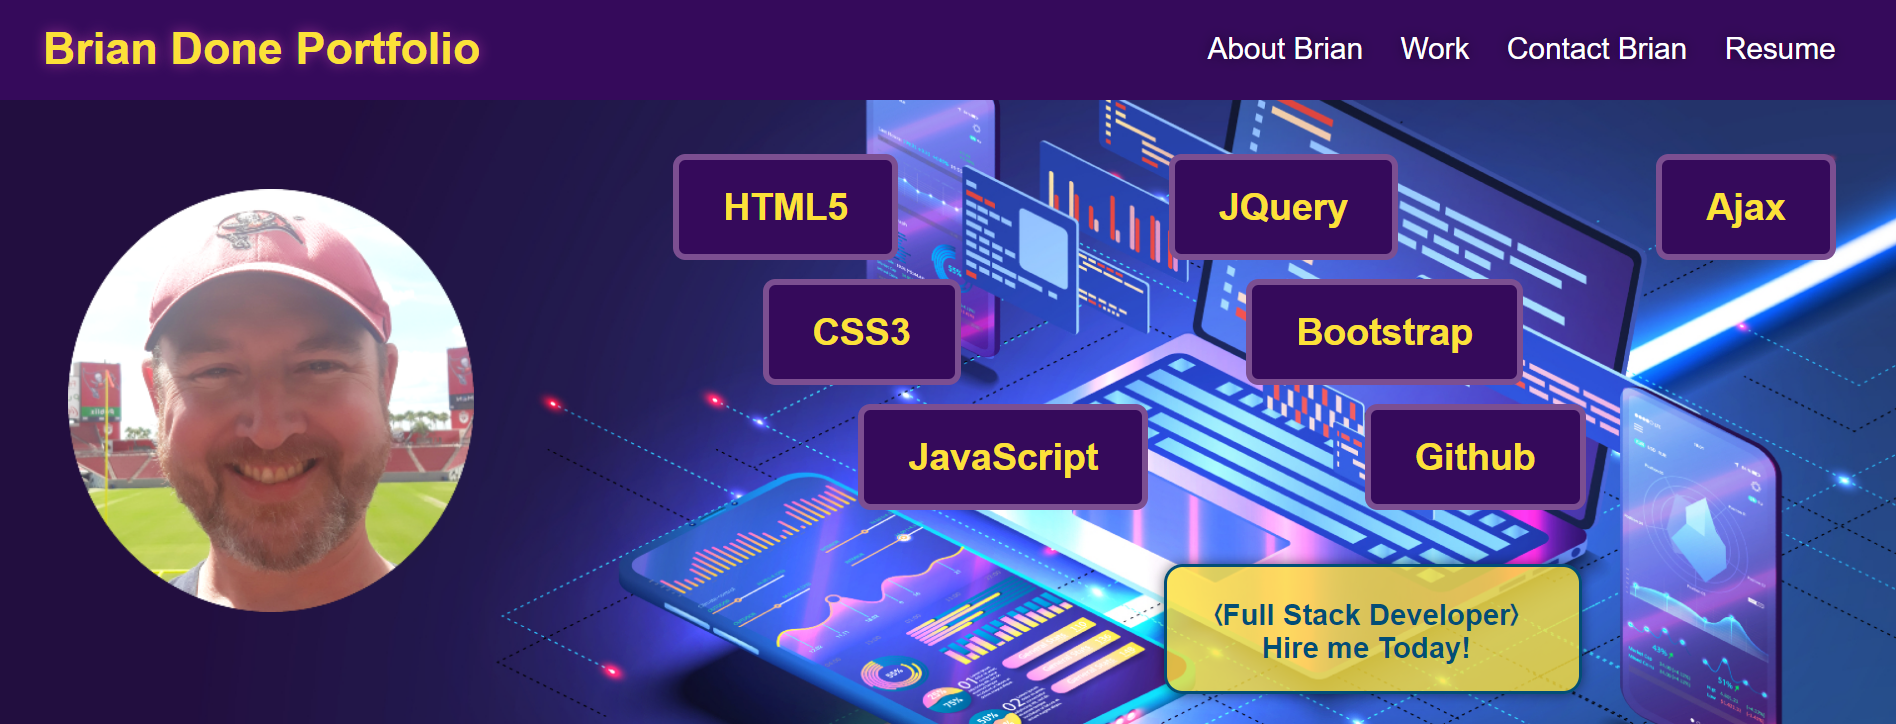
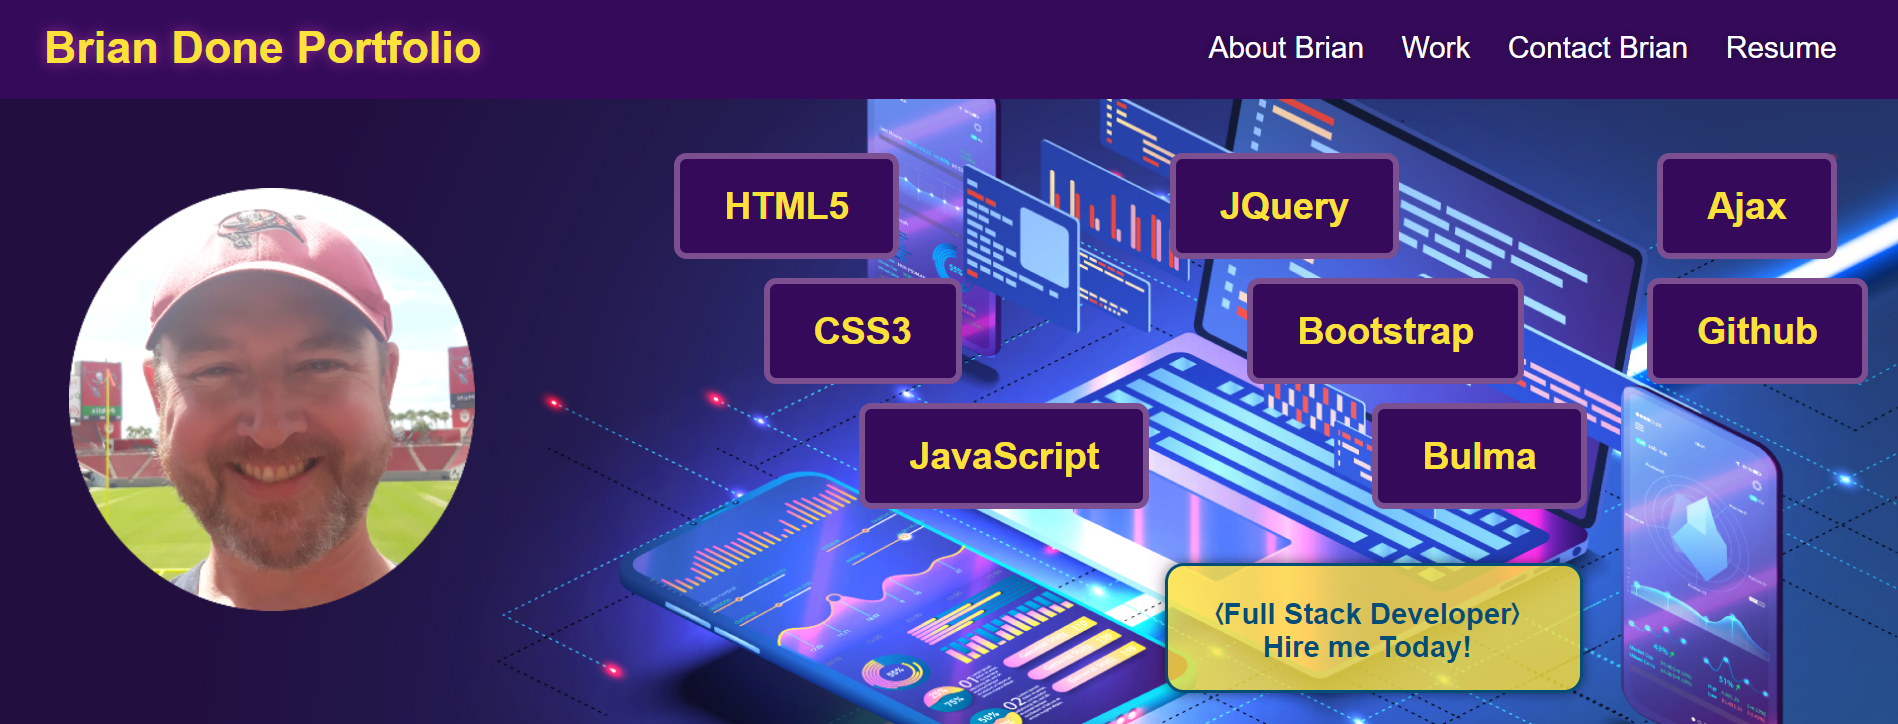
added bulma js function to hero

diff --git a/assets/js/main.js b/assets/js/main.js
@@ -45,14 +45,14 @@ var sloganBootstrap = function () {
 }
 setTimeout(sloganBootstrap, 5000);
 
-var sloganGithub = function () {
-    var githubEl = document.createElement("div");
-    githubEl.textContent = "Github";
-    body.appendChild(githubEl);
-    githubEl.className = "slogan-github";
+var sloganBulma = function () {
+    var bulmaEl = document.createElement("div");
+    bulmaEl.textContent = "Bulma";
+    body.appendChild(bulmaEl);
+    bulmaEl.className = "slogan-bulma";
 
 }
-setTimeout(sloganGithub, 6000);
+setTimeout(sloganBulma, 6000);
 
 var sloganAjax = function () {
     var ajaxEl = document.createElement("div");
@@ -62,6 +62,17 @@ var sloganAjax = function () {
 
 }
 setTimeout(sloganAjax, 7000);
+
+var sloganGithub = function () {
+    var githubEl = document.createElement("div");
+    githubEl.textContent = "Github";
+    body.appendChild(githubEl);
+    githubEl.className = "slogan-github";
+
+}
+setTimeout(sloganGithub, 8000);
+
+
 
 $(document).ready(function(){
 

diff --git a/assets/css/style.css b/assets/css/style.css
@@ -105,7 +105,7 @@ a:link, a:visited {
     border-radius: 10px;
 }
 
-.slogan-github {
+.slogan-bulma {
     padding: 20px 35px;
     background-color: var(--darkestpurple-color);
     color: var(--yellow-color);
@@ -136,6 +136,24 @@ a:link, a:visited {
     border: 5px solid var(--lightpurple-color);
     border-radius: 10px;
 }
+
+.slogan-github {
+    padding: 20px 35px;
+    background-color: var(--darkestpurple-color);
+    color: var(--yellow-color);
+    font-size: 30px;
+    font-weight: bold;
+    text-align: center;
+    display: flex;
+    position: absolute;
+    top: 225px;
+    right: 25px;
+    z-index: 10000;
+    border: 5px solid var(--lightpurple-color);
+    border-radius: 10px;
+}
+
+
 
 /* Header Styles */
 header {
